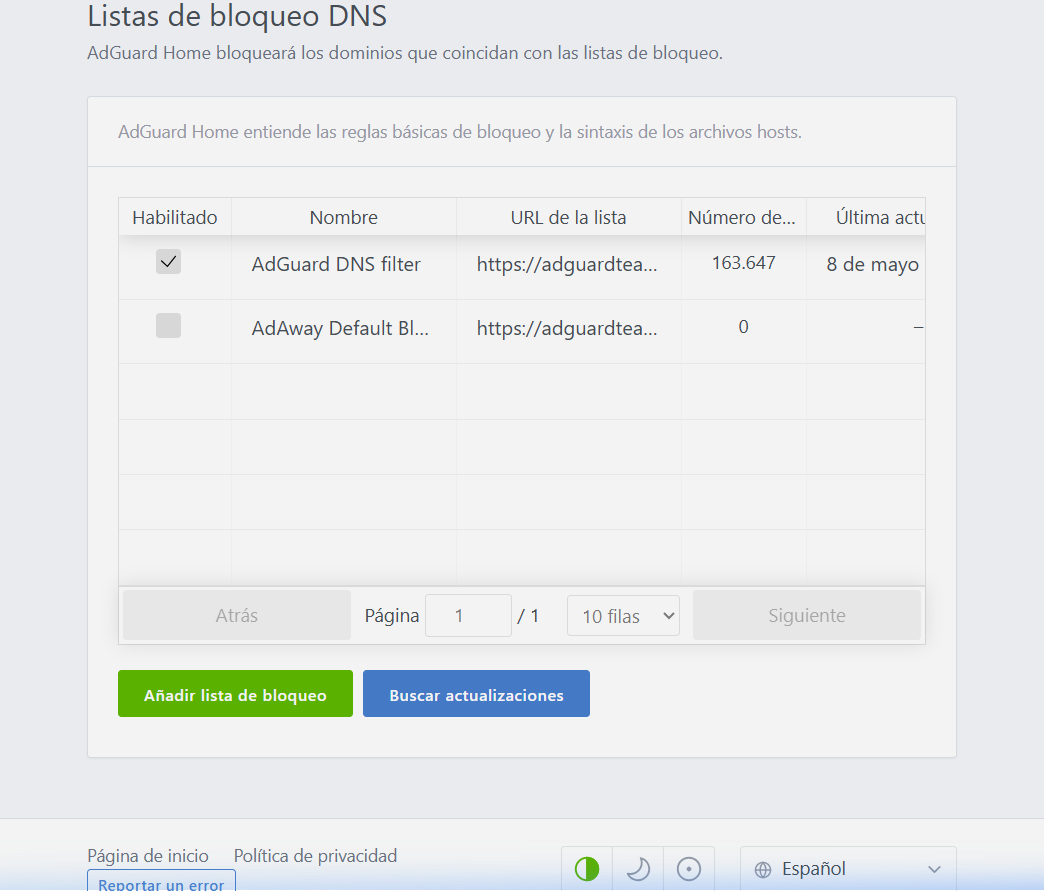
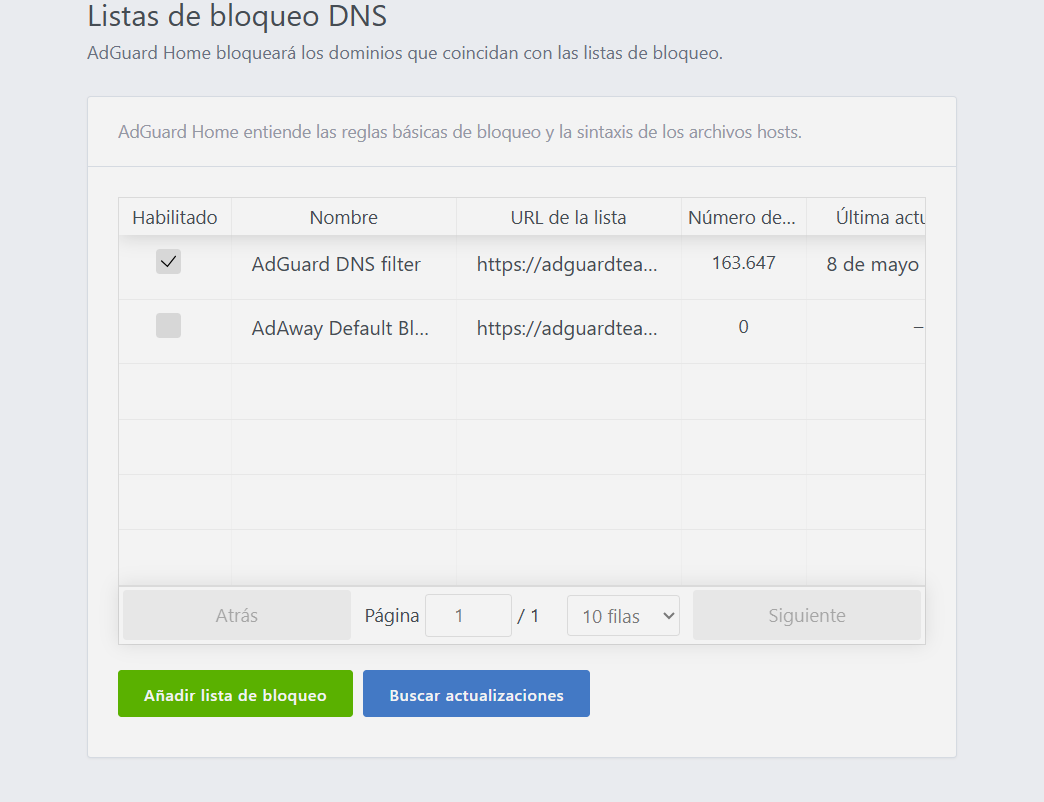
Update Dashboard: split into beautiful individual sections

diff --git a/README.md b/README.md
@@ -39,8 +39,13 @@ services:
 
 Las capturas se encuentran en la carpeta `/capturas`:
 - `01_listas_bloqueo.png`: Listas de filtrado configuradas.
-- `02_dashboard.png`: Panel principal de estadísticas.
-- `03_registro_consultas_bloqueo.png`: Registro de consultas donde se ve el bloqueo de `doubleclick.net`.
+- **Panel de Control (Desglosado):**
+  - `02a_dashboard_resumen.png`: Resumen de consultas y bloqueos.
+  - `02b_dashboard_estadisticas.png`: Estadísticas generales de tráfico.
+  - `02c_dashboard_clientes.png`: Clientes con más peticiones.
+  - `02d_dashboard_dominios_consultados.png`: Dominios más solicitados.
+  - `02e_dashboard_dominios_bloqueados.png`: Dominios bloqueados por los filtros.
+- `03_registro_consultas_bloqueo.png`: Registro de consultas detallado con bloqueo verificado.
 
 ---
 **Eric Moruno Moya**